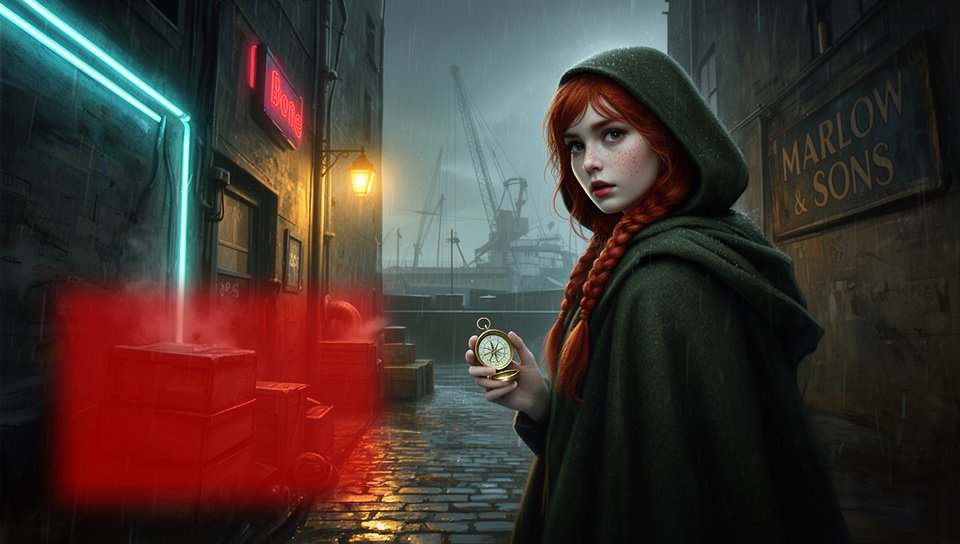
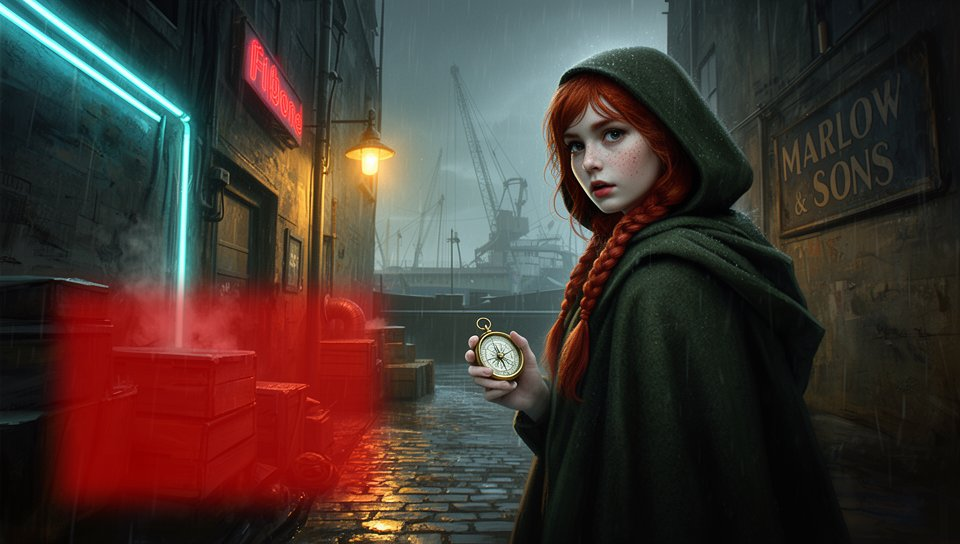
inpaint bench: frozen source.png; e0 driver names outputs by prompt; journal on the invalid E8 run 2

diff --git a/engine/spikes/e0_comfy_t2i.py b/engine/spikes/e0_comfy_t2i.py
@@ -195,7 +195,10 @@ def main() -> int:
         print("FAIL: missing node classes:", missing)
         return 2
 
+    prompt_stem = Path(a.prompt_file).stem
     tag = f"{a.config}{'-turbo' if a.turbo else ''}{'-tecpu' if a.te_device == 'cpu' else ''}-{a.steps}st-{a.width}x{a.height}"
+    if prompt_stem != "01-alley-rain":  # keep the historical E0 file names for the default prompt; never overwrite them with other prompts
+        tag = f"{prompt_stem}-{tag}"
     for i in range(a.runs):
         seed = a.seed + i
         graph = build_graph(a.config, prompt, a.width, a.height, seed, a.steps, a.guidance, a.sampler,

diff --git a/.docs/proto01/90-journal.md b/.docs/proto01/90-journal.md
@@ -482,3 +482,19 @@ read the clock)*
   file-name input by **basename** against the node's current enum (`fix_names`). Lesson for the roster/recipe
   compiler (06 §3b): file identity must be by roster id → resolved path, never by a hand-typed string.
 - Run 1 rows kept as `e8_results_contract_errors_run1.jsonl`; run 2 started 09:38.
+
+## 2026-10-05 10:45 — E8 run 2 invalid (my error): wrong source image + a duplicate driver
+
+- All 24 run-2 jobs **succeeded** (Klein ICM 34 s, Klein base 60 s, Klein+LanPaint 23 s, dev+LanPaint 254 s,
+  Fill 78 s, Qwen-Edit 480 s at 960×544), but on the **wrong image**: `tasks.json` pointed at the E0 output file
+  `e0_fp8-20st-960x544_s20261004.png`, and the 09:22 frame-rendering run re-used that name for every prompt, so
+  the file had become the portrait-grief render while the masks were drawn for the alley scene. Every output shows
+  the portrait; the fill/outpaint results are plausible but unscorable against the tasks.
+- A second instance of the driver also ran concurrently: the superseded first E8 chain's waiter timed out and,
+  because its remaining lines were not chained with `&&`, it still launched the driver against run 2's engine
+  (duplicate task-01 rows, inflated task-04 times from model swapping).
+- Fixes: `bench/inpaint/source.png` is a **frozen copy** (bench inputs never point into spike output folders);
+  the e0 driver now prefixes outputs with the prompt stem for non-default prompts; all drivers and the engine were
+  stopped; run-2 artefacts kept under `e8_invalid_run2/` and `e8_results_run2_wrong_source.jsonl`. Lesson for
+  06 §4: assets are content-addressed, never "newest file with this name" (loom's manifest-as-truth rule, again).
+- **Run 3 started 10:45** on the frozen source. The E4 chain waits for its 24 rows.
